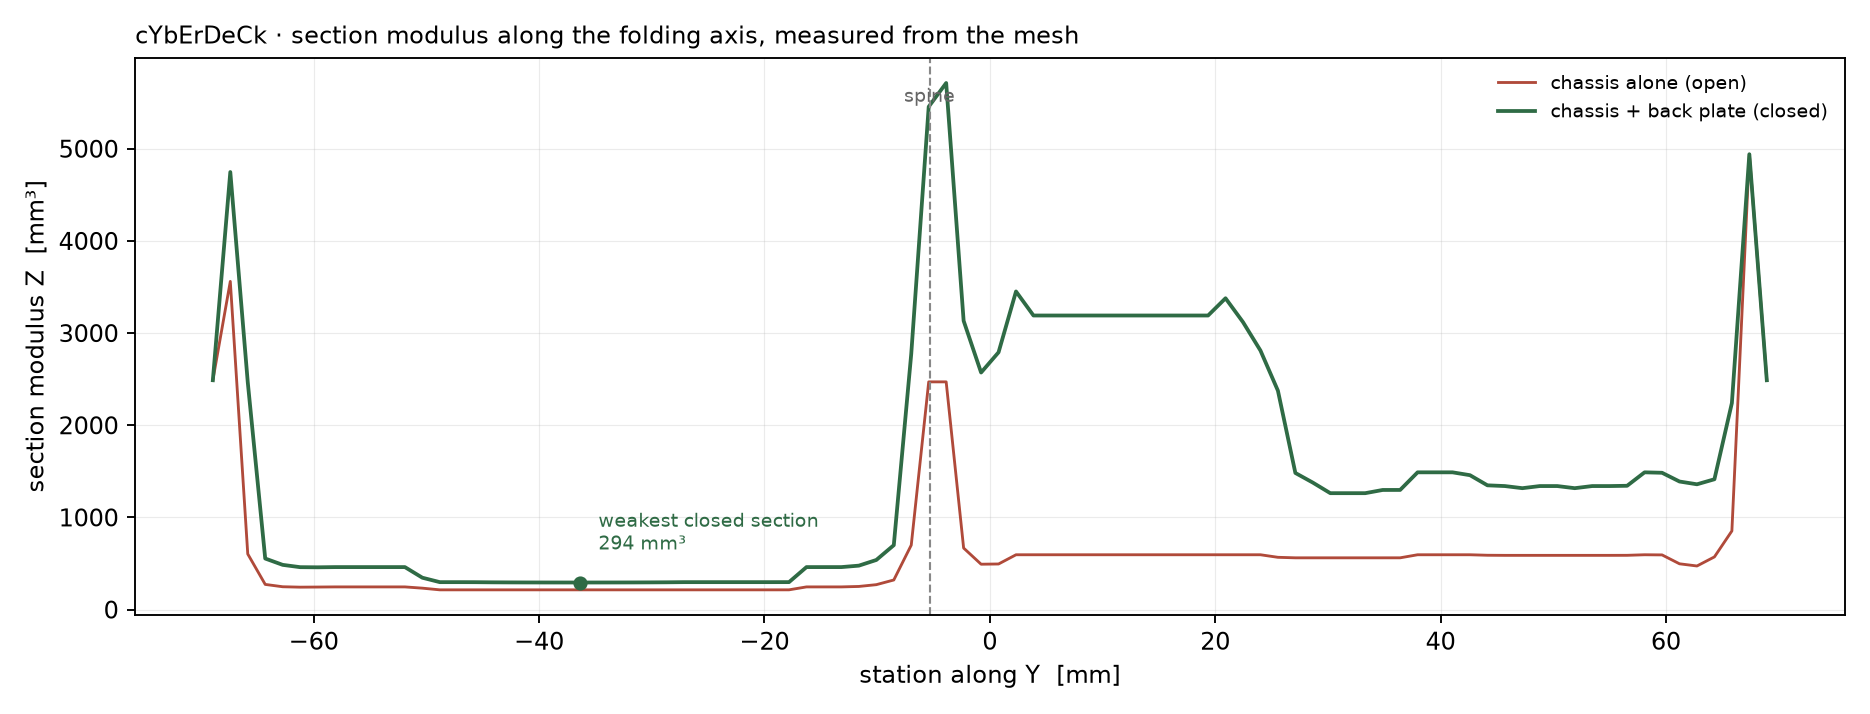
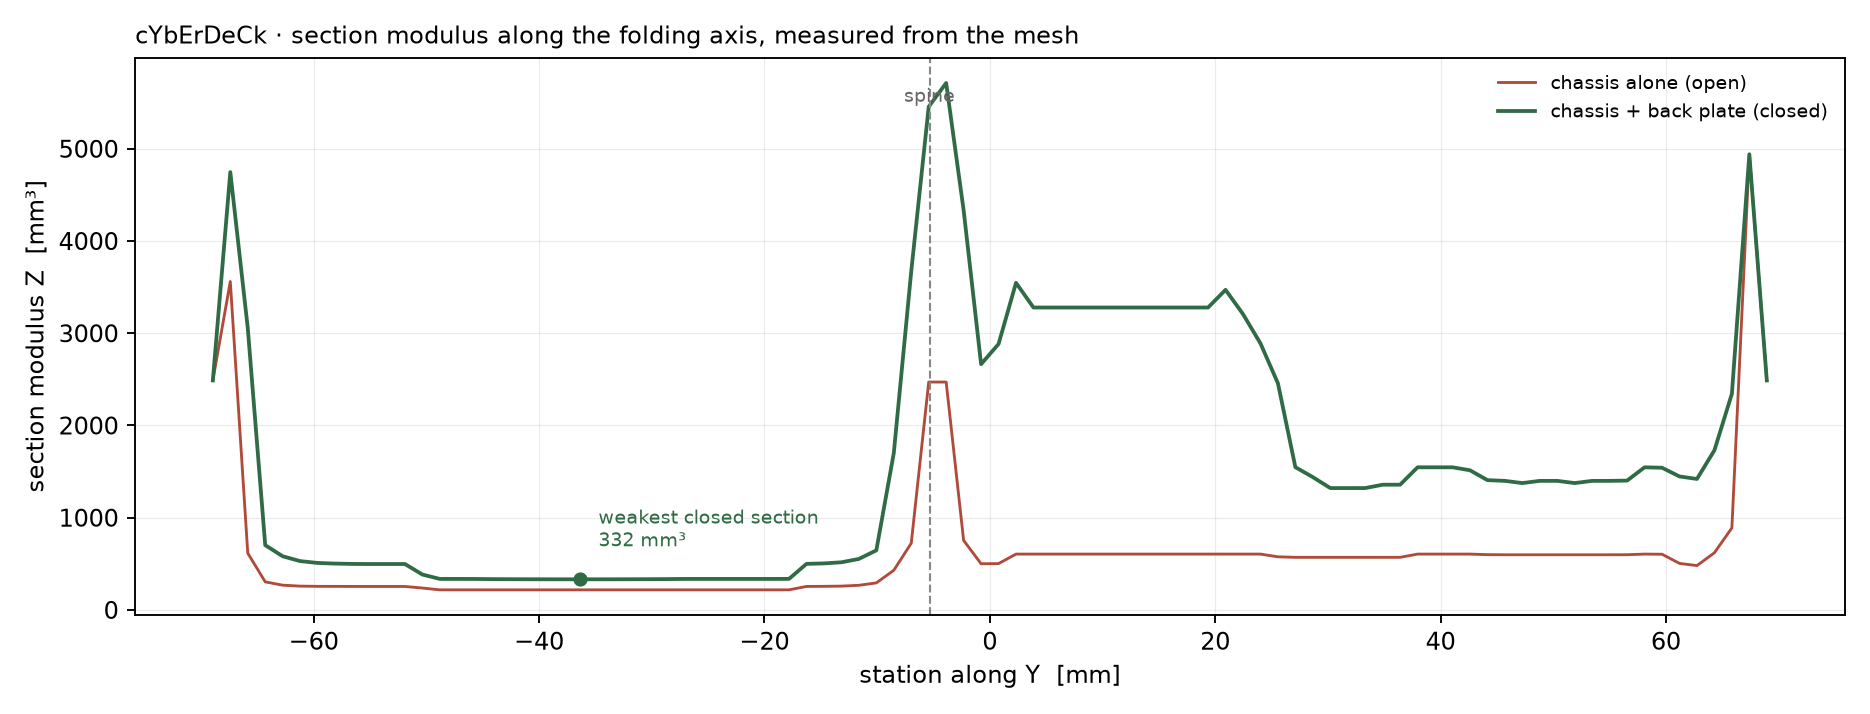
Measure the keyboard's corner radius; it was hiding a defect at all four corners
You were right that the corners are rounded. mock_keyboard() carried
body_r = 5.0 tagged [PROVISIONAL] - a guess, never measured, and the only
description this project had of the keyboard's corners.

The real radius is about 10 mm, from two independent sources:

    Riitek product drawing, rear view    circle fit, scaled on the
                                         printed 108.5 mm      10.8 - 11.2 mm
    third-party CAD replica STL          circle fit by section  9.5 - 10.6 mm

Tagged [MEASURED] with a band rather than [VENDOR], since neither is a
dimensioned callout. The band matters in BOTH directions and they are not the
same direction for every check: a squarer body is the worst case for entering
the pocket, a rounder one is the worst case for the lip holding it. Anything
checking a corner now has to say which end it is using.

WHAT THE GUESS WAS HIDING

At 5.0 mm the keyboard's corner stayed well inside the aperture and everything
passed with a healthy 1.00 mm lip. At the real 10 mm it retreats far enough
that the superelliptical aperture corner no longer covered it. A superellipse
is not the erosion of a circle - at n=3.2 it sits up to 1.55 mm PROUD of the
arc of the same corner size, biting toward the box corner exactly where a
rounded component is retreating from it. The two effects add, and the lip went
NEGATIVE: -0.84 mm at nominal, -1.34 mm at the top of the band. Four open gaps
into the pocket, and nothing retaining any corner.

WHY NOTHING CAUGHT IT
[…]

diff --git a/tools/validate.py b/tools/validate.py
@@ -212,6 +212,21 @@ def check_fit(parts, mocks, p):
                 p["kbd_aper_w"] < p["kbd_pocket_w"] and p["kbd_aper_h"] < p["kbd_pocket_h"],
                 f"lip {(p['kbd_pocket_w']-p['kbd_aper_w'])/2:.2f} / "
                 f"{(p['kbd_pocket_h']-p['kbd_aper_h'])/2:.2f} mm per side")
+
+    # THE CHECK ABOVE IS ONE-DIMENSIONAL AND THAT IS WHY IT MISSED A REAL BUG.
+    # Comparing widths and heights only ever tests the flats. The lip is a 2-D
+    # ring, and it is at the CORNERS that it disappears - where the keyboard's
+    # own rounded corner retreats inward while a squarer aperture corner bites
+    # outward. Measured at the worst end of the corner band, from the mesh.
+    lip_min, lip_at = _corner_lip(parts["chassis"], p)
+    ok &= check("keyboard covers the aperture at the corners too", "FIT",
+                lip_min >= 0.40,
+                f"narrowest lip {lip_min:.2f} mm, at the corners, against a "
+                f"keyboard corner radius of {p['kbd_body_corner_r_max']:.1f} mm "
+                f"(the worst case for capture); on the flats it is "
+                f"{min(p['kbd_lip_x'], p['kbd_lip_y']):.2f}"
+                + (f"; nominal corner r {p['kbd_body_corner_r']:.1f} gives "
+                   f"{lip_at:.2f}" if lip_at is not None else ""))
     ok &= check("board is captured by the front lip", "FIT",
                 p["display_aper_w"] < p["board_pocket_w"],
                 f"lip {(p['board_pocket_w']-p['display_aper_w'])/2:.2f} mm per side")
@@ -270,6 +285,60 @@ def check_fit(parts, mocks, p):
                 f"reveal {(p['display_aper_w']-p['display_active_w'])/2:.2f} / "
                 f"{(p['display_aper_h']-p['display_active_h'])/2:.2f} mm per side")
     return ok
+
+
+def _rounded(w, h, c, n, q=400):
+    """Rounded rectangle with a superelliptical corner. n = 2 is a circle."""
+    from shapely.geometry import Polygon
+    c = min(c, w / 2 - 0.01, h / 2 - 0.01)
+    ax, ay = w / 2 - c, h / 2 - c
+    t = np.linspace(0, 90, q)
+    e = 2.0 / n
+    ct = np.power(np.clip(np.cos(np.radians(t)), 0, None), e)
+    st = np.power(np.clip(np.sin(np.radians(t)), 0, None), e)
+    return Polygon(np.vstack([np.c_[ax + c*ct,  ay + c*st],
+                              np.c_[-ax - c*st, ay + c*ct],
+                              np.c_[-ax - c*ct, -ay - c*st],
+                              np.c_[ax + c*st,  -ay - c*ct]]))
+
+
+def _corner_lip(chassis, p):
+    """Narrowest overlap between the keyboard body and the front-face lip.
+
+    The aperture outline is taken FROM THE RENDERED MESH rather than rebuilt
+    from parameters, so this measures the part that would actually be printed.
+    Negative means the keyboard does not reach the aperture edge there - you
+    would see into the pocket past the corner, and nothing retains it.
+    """
+    from shapely.geometry import Point
+    kcy = -p["body_h"] / 2 + p["wall"] + p["kbd_pocket_h"] / 2
+    # The BEARING plane, not mid-thickness: the keyboard is pushed forward onto
+    # the inner face of the front panel, and that is where the aperture is at
+    # its smallest and the lip at its widest. Sectioning higher measures the
+    # flare, which is draft and visual relief, not the surface that retains it.
+    z = p["body_t"] - p["front_t"] + 0.05
+    ring = None
+    for g in section_polys(chassis, z):
+        for r in g.interiors:
+            from shapely.geometry import Polygon as _P
+            q = _P(r); b = q.bounds
+            if abs((b[1] + b[3]) / 2 - kcy) < 8 and (b[2] - b[0]) > 60:
+                ring = q
+    if ring is None:
+        return -99.0, None
+    xy = np.array(ring.exterior.coords)
+    xy[:, 1] -= kcy                              # into keyboard-centred coords
+
+    def narrowest(rb):
+        body = _rounded(p["kbd_body_w"], p["kbd_body_h"], rb, 2.0)
+        out = []
+        for x, y in xy:
+            pt = Point(x, y)
+            d = pt.distance(body.exterior)
+            out.append(d if body.contains(pt) else -d)
+        return min(out)
+
+    return narrowest(p["kbd_body_corner_r_max"]), narrowest(p["kbd_body_corner_r"])
 
 
 def check_interface(parts, p):

diff --git a/docs/DESIGN.md b/docs/DESIGN.md
@@ -82,29 +82,29 @@ and says nothing about absolute stress.
 
 | | reference deck | this design |
 |---|---|---|
-| mean second moment `I` | 9 553 mm⁴ | **18 791 mm⁴** |
-| mean section modulus `Z` | 891 mm³ | **1 559 mm³** |
-| worst-section `Z` | 212 mm³ | **294 mm³** |
+| mean second moment `I` | 9 553 mm⁴ | **19 780 mm⁴** |
+| mean section modulus `Z` | 891 mm³ | **1 657 mm³** |
+| worst-section `Z` | 212 mm³ | **332 mm³** |
 
-**1.97× the mean bending stiffness and 1.38× at the worst section, in a
-smaller envelope.** Fitting the back plate is worth 3.41× on its own, which is
+**2.07× the mean bending stiffness and 1.56× at the worst section, in a
+smaller envelope.** Fitting the back plate is worth 3.47× on its own, which is
 the monocoque argument in one number.
 
 Moving the joint to the back is worth more than expected. At a typical station
-the closed section's neutral axis sits at z = 2.22 mm and the joint plane at
-z = 3.20 — 0.98 mm from the neutral axis, against 14.38 mm for the front face.
+the closed section's neutral axis sits at z = 2.35 mm and the joint plane at
+z = 3.20 — 0.85 mm from the neutral axis, against 14.25 mm for the front face.
 Bending stress varies with distance from the neutral axis, so **the joint at the
-back carries about 93 % less bending stress than the same joint across the
+back carries about 94 % less bending stress than the same joint across the
 face.** That was reasoned qualitatively before it was computed; the computation
 made it stronger, not weaker.
 
 The claim it *contradicts* is the "closed torsion box" one, and the correction
-is worth stating plainly. Only **7 of 90 stations enclose a genuine cell — 8 %
+is worth stating plainly. Only **9 of 90 stations enclose a genuine cell — 10 %
 of the length.** Everywhere else the front face is absent, because that is what
 an aperture is, and the section is a U closed only by the back plate. The deck
 is not a torsion box with two holes in it; it is two open channels joined by one
-short closed cell at the spine. Bredt's formula at that cell gives J = 54 381 mm⁴
-against roughly 2 910 mm⁴ for the same outline left open — about **19×**.
+short closed cell at the spine. Bredt's formula at that cell gives J = 36 492 mm⁴
+against roughly 2 910 mm⁴ for the same outline left open — about **13×**.
 
 So the spine is not merely *a* shear web, it is the only closed cell in the
 device, and it is carrying the torsional stiffness of the whole deck. That is a
@@ -115,16 +115,16 @@ its cross-section suggests.
 ### The weak point, named
 
 The worst section is at **Y = −36.4 mm, mid-keyboard-bay** — 31 mm from the
-spine, which does not cover it. `Z` there is 294 mm³ against a mean of 1 559.
+spine, which does not cover it. `Z` there is 332 mm³ against a mean of 1 657.
 
 The cause is not an oversight and cannot be designed out: the keyboard aperture
 is 106.5 mm across a 116.6 mm body, so there is almost no front face left over
 that bay — about 5 mm each side. Any material added there covers keys. The board
 bay does not have the problem, because the display aperture is 86.8 mm wide and
-leaves ~15 mm of face on each flank; its `Z` runs 1 300–3 200.
+leaves ~15 mm of face on each flank; its `Z` runs 1 400–3 300.
 
 The reference deck is weakest in the same place for the same reason (212 mm³),
-which is what makes the comparison like for like. This design is 38 % better at
+which is what makes the comparison like for like. This design is 56 % better at
 the point that governs. **If this deck fails in a drop, that is where, and the
 honest answer is that the keyboard's own width sets it.**
 
@@ -223,6 +223,27 @@ The outward flare opens it to an effective 5.65 mm at the visible face, which
 softens it considerably. But the honest statement is that the panel sets this
 corner, not the designer, and `validate.py` asserts the bound rather than
 letting a later edit quietly violate it.
+
+The **keyboard aperture's corner is circular, not superelliptical**, and it is
+derived rather than chosen. This one was found the hard way.
+
+A lip of constant width around an aperture is the component's outline eroded by
+the lip width, and eroding a circular corner of radius `r` by `d` gives a
+circular corner of radius `r − d`. A superellipse is not the erosion of a
+circle: at `n = 3.2` it sits up to **1.55 mm proud** of the circular arc of the
+same corner size, biting toward the box corner — exactly where a rounded
+component's corner is retreating away from it. The two effects add.
+
+The Rii 518BT's corner radius is about **10 mm**, measured from the
+manufacturer's drawing and from a third-party CAD replica. Against a 9.0 mm
+superelliptical aperture corner the lip did not merely get thin, it went
+**negative**: the keyboard stopped covering its own aperture, and you would have
+seen into the pocket past all four corners with nothing retaining them.
+
+So the corner is `kbd_body_corner_r_max − min(lip_x, lip_y)` = 10.2 mm,
+circular, and `validate.py` measures the narrowest lip **around the whole ring**
+from the rendered mesh rather than comparing widths. It now reads 0.98 mm at the
+corners against 1.00 mm on the flats — constant, which is the point.
 
 The **internal cavity** is likewise not given the treatment. A continuous corner
 is tighter at the corner itself than an arc of the same visual line; applied to
@@ -378,7 +399,7 @@ This is a real constraint honestly resolved, not a feature quietly dropped.
 
 ## What is not proven
 
-Internal consistency is asserted by 70 automated checks, and the structural
+Internal consistency is asserted by 71 automated checks, and the structural
 claims by classical section analysis in `tools/structure.py`. **Fit against
 physical hardware is not, and neither is drop survival** — section analysis
 gives ratios, not absolute stress, and nothing here models layer adhesion,

diff --git a/README.md b/README.md
@@ -22,7 +22,7 @@ so it reads as grown rather than extruded.
 
 ```
 116.6 × 139.1 × 16.6 mm   (+ 10.0 mm battery cowl)
-2 printed structural parts · 4 screws · 70 automated checks
+2 printed structural parts · 4 screws · 71 automated checks
 ```
 
 ---
@@ -78,7 +78,7 @@ openscad -D 'part="chassis"'   -o export/stl/chassis.stl   cad/cyberdeck.scad
 openscad -D 'part="backplate"' -o export/stl/backplate.stl cad/cyberdeck.scad
 openscad -D 'part="buttons"'   -o export/stl/buttons.stl   cad/cyberdeck.scad
 
-python3 tools/validate.py          # 70 checks; non-zero exit if any fail
+python3 tools/validate.py          # 71 checks; non-zero exit if any fail
 ```
 
 0.4 mm nozzle, 0.2 mm layers, no supports. Full instructions, BOM and print
@@ -132,7 +132,7 @@ Full record, including every correction and every remaining gap, in
 
 ## What is *not* proven
 
-**Nobody has built this.** It is asserted internally consistent by 70 automated
+**Nobody has built this.** It is asserted internally consistent by 71 automated
 checks; it has not been printed, and the components have not been offered up to
 a physical chassis.
 
@@ -171,23 +171,23 @@ not FEA: good for **ratios and weak-point location**, silent on absolute stress.
 
 | | reference deck | this design |
 |---|---|---|
-| mean second moment `I` | 9 553 mm⁴ | **18 791 mm⁴** |
-| mean section modulus `Z` | 891 mm³ | **1 559 mm³** |
-| worst-section `Z` | 212 mm³ | **294 mm³** |
+| mean second moment `I` | 9 553 mm⁴ | **19 780 mm⁴** |
+| mean section modulus `Z` | 891 mm³ | **1 657 mm³** |
+| worst-section `Z` | 212 mm³ | **332 mm³** |
 
-**1.97× the mean bending stiffness, 1.38× at the worst section, in a smaller
-envelope.** Fitting the back plate is worth 3.41× on its own. Putting the joint
-at the back rather than across the face puts it 0.98 mm from the neutral axis
-instead of 14.38 mm, so it carries about **93 % less bending stress**.
+**2.07× the mean bending stiffness and 1.56× at the worst section, in a smaller
+envelope.** Fitting the back plate is worth 3.47× on its own. Putting the joint
+at the back rather than across the face puts it 0.85 mm from the neutral axis
+instead of 14.25 mm, so it carries about **94 % less bending stress**.
 
 It also corrected one of this project's own claims. The shell was described as a
-closed torsion box; it is one over **8 % of its length**. Everywhere else the
+closed torsion box; it is one over **10 % of its length**. Everywhere else the
 front face is absent — that is what an aperture is — and the section is a U
 closed only by the back plate. The deck is two open channels joined by one short
-closed cell at the spine, and that cell is worth 19× in torsion. The spine is
+closed cell at the spine, and that cell is worth 13× in torsion. The spine is
 not merely a shear web, it is the only closed cell in the device.
 
-The weak point is named rather than hidden: **mid-keyboard-bay, `Z` = 294 mm³**,
+The weak point is named rather than hidden: **mid-keyboard-bay, `Z` = 332 mm³**,
 because the keyboard aperture is 106.5 mm across a 116.6 mm body and leaves
 about 5 mm of face each side. Nothing can be added there without covering keys.
 The reference is weakest in the same place for the same reason. If this deck
@@ -215,7 +215,7 @@ author had, 3.2 mm walls instead of 2.9.
 
 | | |
 |---|---|
-| **[DATUMS.md](docs/DATUMS.md)** | every dimension, its provenance, six recorded corrections, seven open items |
+| **[DATUMS.md](docs/DATUMS.md)** | every dimension, its provenance, eight recorded corrections, seven open items |
 | **[DESIGN.md](docs/DESIGN.md)** | form language, why it is shaped this way, material and finish |
 | **[METHODOLOGY.md](docs/METHODOLOGY.md)** | how the numbers were obtained and how to reproduce them |
 | **[ASSEMBLY.md](docs/ASSEMBLY.md)** | BOM, print settings, build order |
@@ -227,7 +227,7 @@ author had, 3.2 mm walls instead of 2.9.
 |---|---|
 | `tools/params.py` | the single reader for `parameters.scad`; every other tool goes through it |
 | `tools/measure_reference.py` | metrology harness — regenerates every measured datum |
-| `tools/validate.py` | 70-check design audit — the build gate |
+| `tools/validate.py` | 71-check design audit — the build gate |
 | `tools/audit_reference.py` | component-facing accuracy against the reference |
 | `tools/structure.py` | section properties from the mesh; stiffness against the reference |
 | `tools/drawing.py` | dimensioned GA sheets, measured from the mesh |
@@ -245,7 +245,7 @@ cad/
 tools/
   params.py             the single reader for parameters.scad
   measure_reference.py  metrology harness — regenerates every measured datum
-  validate.py           70-check design audit — the build gate
+  validate.py           71-check design audit — the build gate
   audit_reference.py    component-facing accuracy against the reference
   structure.py          section properties, stiffness, weak-point location
   drawing.py            dimensioned GA sheets, measured from the mesh

diff --git a/docs/DATUMS.md b/docs/DATUMS.md
@@ -319,6 +319,50 @@ a wider recess behind it. This back plate is 3.2 mm thick and the header stands
 8.603 mm off the PCB back — **1.60 mm proud of the standoff plane** — so the
 body itself must pass through. The window here is sized from the body.
 
+### C-08 — A guessed corner radius hid a defect that a 1-D check could not see
+
+`mock_keyboard()` carried `body_r = 5.0` tagged `[PROVISIONAL]` — a guess, never
+measured, and the only description this project had of the keyboard's corners.
+
+The real radius is about **10 mm**. Two independent sources agree:
+
+| Source | Method | Result |
+|---|---|---|
+| Riitek product drawing, rear view | circle fit to the silhouette, scaled on the printed 108.5 mm | 10.8 – 11.2 mm |
+| Third-party CAD replica STL | circle fit by section height | 9.5 – 10.6 mm |
+
+Neither is a dimensioned callout, so it is `[MEASURED]` with a band rather than
+`[VENDOR]`. **The band matters in both directions, and they are not the same
+direction for every check** — a squarer body is the worst case for getting into
+the pocket, a rounder one is the worst case for the lip holding it. Anything
+checking a corner has to say which end it is using.
+
+**What the guess was hiding.** At 5.0 mm the keyboard's corner stayed well
+inside the aperture and every check passed with a healthy 1.00 mm lip. At the
+real 10 mm the corner retreats far enough that the superelliptical aperture
+corner — which bulges *toward* the box corner — no longer covered it. The lip
+went **negative: −0.84 mm at nominal, −1.34 mm at the top of the band.** Four
+open gaps into the pocket, and no retention at any corner.
+
+**Why nothing caught it.** The lip check compared `kbd_aper_w < kbd_pocket_w`
+and the same in height. That is a one-dimensional test of a two-dimensional
+problem: widths and heights only ever measure the flats, and the lip fails at
+the corners. It is replaced by one that walks the whole aperture ring, taken
+from the rendered mesh, against the body at the worst end of the corner band.
+
+**A second defect surfaced while measuring it.** Both component pockets were cut
+`+ 1` proud instead of `+ 0.01` — the only two epsilons in the file that were not
+0.01. That is not an epsilon, it is a millimetre taken off the thickness of the
+retaining lip, leaving 1.4 mm of a 2.4 mm panel, and it put the bearing plane
+inside the aperture's draft flare where the opening has already widened. Fixed
+to 0.01. It also moved the structure: the weakest section improved from 294 to
+332 mm³ and mean bending stiffness from 1.97× to 2.07× the reference, because
+the material came back exactly at the weakest station.
+
+The lesson is the one this file keeps relearning, in a new costume: a
+`[PROVISIONAL]` value that gates a check does not fail loudly. It passes,
+against itself.
+
 ### C-07 — The "retail body" at 109.22 mm was this project's own round trip
 
 For one day this file carried two rival keyboard bodies: the drawing/manual

diff --git a/docs/METHODOLOGY.md b/docs/METHODOLOGY.md
@@ -138,7 +138,7 @@ number that happened to be right, kept because the lesson generalises.
 
 ## Validation
 
-`tools/validate.py` renders the parts **from source** and runs 70 checks in six
+`tools/validate.py` renders the parts **from source** and runs 71 checks in six
 classes: `MESH`, `ENVELOPE`, `FIT`, `INTERFACE`, `PRINT`, `DATUM`. Exit status
 is non-zero unless all pass.
 
@@ -170,9 +170,17 @@ model:
 | Back-opening corner fuller than the keyboard bay's own | 10.96 mm2 of bay undercut; keyboard trapped, invisible to a clash test |
 | Cowl cavity straight inside a crowned outer | cavity punched through the wall; plate in two pieces |
 | Tongue rooted on a rolled edge that had drawn back | tongue floated free of the plate |
+| Aperture corner squarer than the keyboard's own corner | lip went negative; four open gaps into the pocket, no corner retention |
+| Both component pockets cut `+1` proud instead of `+0.01` | 1 mm off the retaining lip, 1.4 mm of a 2.4 mm panel |
 
-Seven of those eight are invisible in a render. That is the argument for
+Most of those are invisible in a render. That is the argument for
 numerical gating over inspection.
+
+Two of those were found only because a check was rewritten to be
+two-dimensional. The lip test compared `aper_w < pocket_w` and the same in
+height, which measures the flats and never the corners — and the lip fails at
+the corners. **A one-dimensional test of a two-dimensional problem passes
+confidently and proves nothing.**
 
 The harness has also had its own bugs, which is worth stating: its parameter
 parser once joined any line ending in `=` onto the next, so every datum
@@ -193,7 +201,7 @@ fine; one that silently checks nothing is worse than none.
   Bredt's formula on sections cut from the real mesh — but classical section
   analysis gives **ratios and weak-point location**, which depend only on
   geometry, and not absolute stress, which depends on layer adhesion and strain
-  rate. It found one claim overstated: the shell is a closed cell over 8 % of
+  rate. It found one claim overstated: the shell is a closed cell over 10 % of
   its length, not throughout.
 - **No print verification.** Wall thicknesses are checked against nozzle
   multiples and overhangs against a draft-angle rule, but nothing has been
